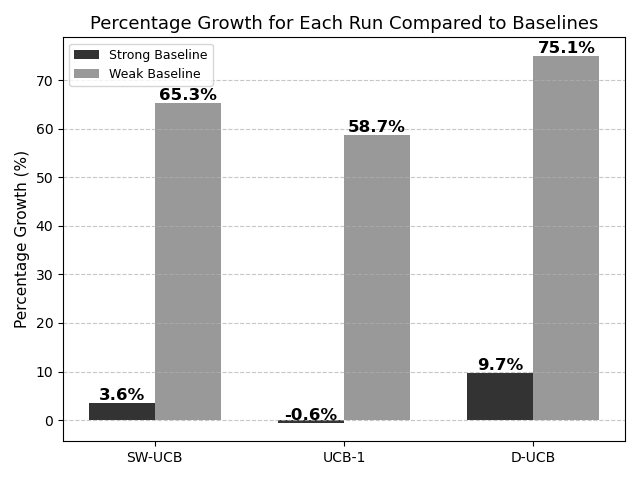
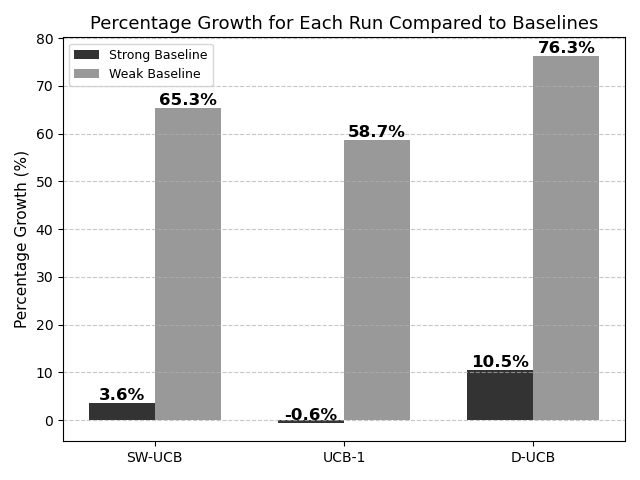
final ucb

diff --git a/UCBtest.py b/UCBtest.py
@@ -166,6 +166,8 @@ def SWUCBOpt(agent_type):
 
     np.random.seed(0)
     env = ROFARS_v1()
+    best_window_size = 0
+    best_gamma = 0
 
 
     """TRAINING"""
@@ -176,13 +178,12 @@ def SWUCBOpt(agent_type):
         best_window_size = inp * 60
         agent = SlidingWindowUCBAgent(window_size=best_window_size)
     elif agent_type == 3:
-        inp = float(input("Enter the gamma: "))
-        agent = DiscountedUCBAgent(gamma=inp)
+        best_gamma = float(input("Enter the gamma: "))
+        agent = DiscountedUCBAgent(gamma=best_gamma)
     agent.initialize(env.n_camera)
 
     # Training loop
     env.reset(mode='train')
-
     for t in tqdm(range(env.length), initial=2):
         action = agent.get_action()
         reward, state, stop = env.step(action)
@@ -203,7 +204,7 @@ def SWUCBOpt(agent_type):
     elif agent_type == 2:
         agent = SlidingWindowUCBAgent(window_size=best_window_size)
     elif agent_type == 3:
-        agent = DiscountedUCBAgent(gamma=0.5)
+        agent = DiscountedUCBAgent(gamma=best_gamma)
     agent.initialize(env.n_camera)
 
     env.reset(mode='test')
@@ -344,15 +345,14 @@ Percentage growth = (Difference / Baseline) x 100 = 0.186 / 0.317 x 100 = 58.7%
 
 Run 3 D-UCB:
 ====== TESTING gamma ======
-[total reward]: 0.555
-Best gamma: 0.9974999999999979
-Best [total reward]: 0.583
+[total reward]: 0.559
+Best gamma: 0.998999999999999
 
-Difference Strong Baseline = Run 3 - Baseline = 0.555 - 0.506 = 0.049
-Percentage growth = (Difference / Baseline) x 100 = 0.049 / 0.506 x 100 = 9.7%
+Difference Strong Baseline = Run 3 - Baseline = 0.559 - 0.506 = 0.053
+Percentage growth = (Difference / Baseline) x 100 = 0.053 / 0.506 x 100 = 10.5%
 
-Difference Weak Baseline = Run 3 - Baseline = 0.555 - 0.317 = 0.238
-Percentage growth = (Difference / Baseline) x 100 = 0.238 / 0.317 x 100 = 75.1%
+Difference Weak Baseline = Run 3 - Baseline = 0.559 - 0.317 = 0.242
+Percentage growth = (Difference / Baseline) x 100 = 0.242 / 0.317 x 100 = 76.2%
 """
 
 """

diff --git a/plots/plot.py b/plots/plot.py
@@ -9,7 +9,7 @@ def add_text_label(ax, x, y, value, color='black', fontweight='bold', fontsize=1
 baseline_strong = 0.506
 baseline_weak = 0.317
 runs = ['SW-UCB', 'UCB-1', 'D-UCB']
-test_rewards = [0.524, 0.503, 0.555]
+test_rewards = [0.524, 0.503, 0.559]
 
 # Calculate percentage growths
 growth_strong = [(reward - baseline_strong) / baseline_strong * 100 for reward in test_rewards]
